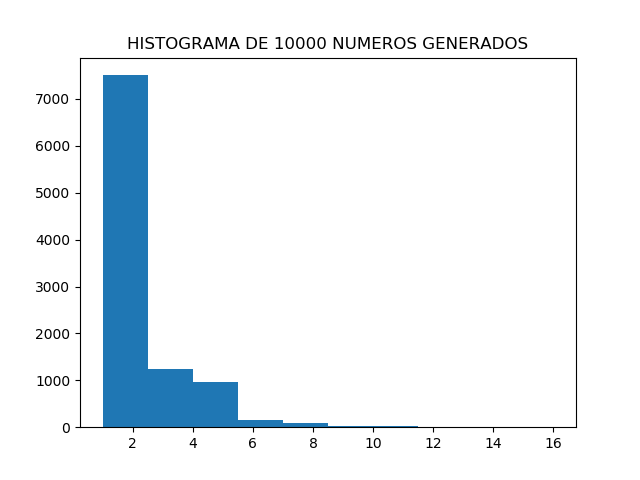
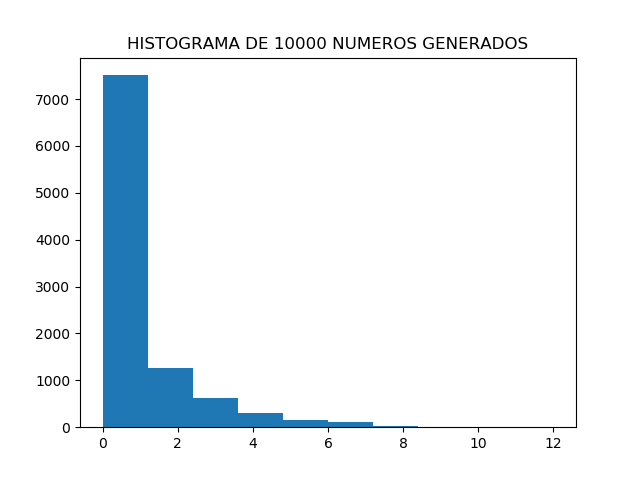
Agrego el ejercicio6 y sus graficos correspondientes

diff --git a/tp1/ejercicio6.py b/tp1/ejercicio6.py
@@ -1,17 +1,22 @@
 import util.generador as generador
 import matplotlib.pyplot as plt
+import math
 
 class GeneradorDistribucionBernoulli:
-  def __init__(self):
+  def __init__(self, p):
+    if p < float(0.0) or p > float(1.0):
+      raise ValueError('probability must be between 0 and 1.')
+
     self.generador = generador.GeneradorLinealCongruente()
+    self.probability = p
 
   def generar(self):
     u = self.generador.generar()
 
-    if u >= float(0.0) and u < float(0.5):
-      return 0
-    elif u >= float(0.5) and u < float(1.0):
+    if u >= float(0.0) and u < float(self.probability):
       return 1
+    elif u >= float(self.probability) and u < float(1.0):
+      return 0
     else:
       raise ValueError('u must be between 0 and 1.')
 
@@ -24,18 +29,25 @@ class GeneradorDistribucionBernoulli:
     return lista
 
 class GeneradorDistribucionGeometrica:
-  def __init__(self):
-    self.generador = GeneradorDistribucionBernoulli()
+  def __init__(self, p):
+    if p < float(0.0) or p > float(1.0):
+      raise ValueError('probability must be between 0 and 1.')
+
+    self.generador = GeneradorDistribucionBernoulli(p)
+    self.probability = p
 
   def generar(self):
+    if self.probability == float(0.0):
+      return math.inf
+
     cantidad = 0
     b = 0
 
     while b != 1:
-      cantidad += 1
       b = self.generador.generar()
+      cantidad += 1
 
-    return cantidad
+    return (cantidad - 1)
 
   def generar_lista(self, cantidad):
     lista = []
@@ -45,7 +57,7 @@ class GeneradorDistribucionGeometrica:
 
     return lista
 
-g = GeneradorDistribucionGeometrica()
+g = GeneradorDistribucionGeometrica(0.5)
 
 print("GENERAR HISTOGRAMA")
 lista = g.generar_lista(10000)
